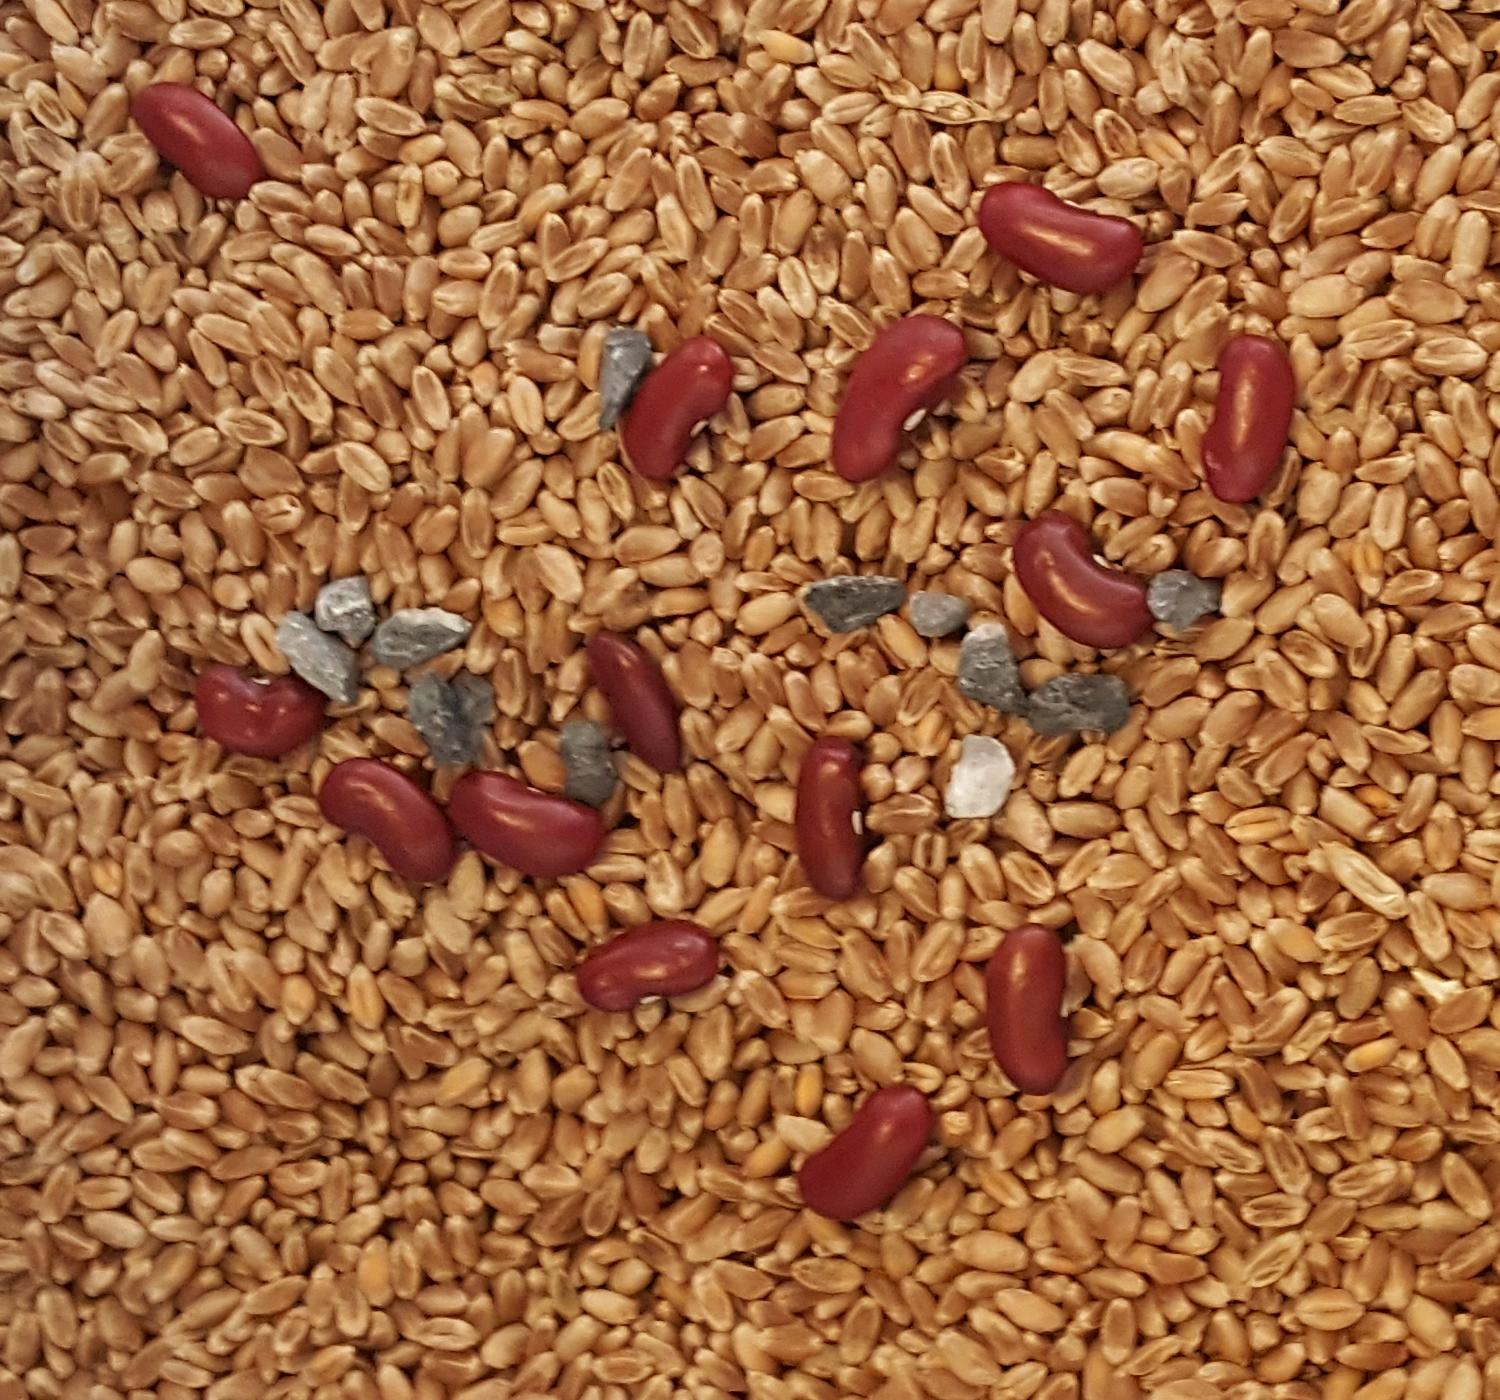
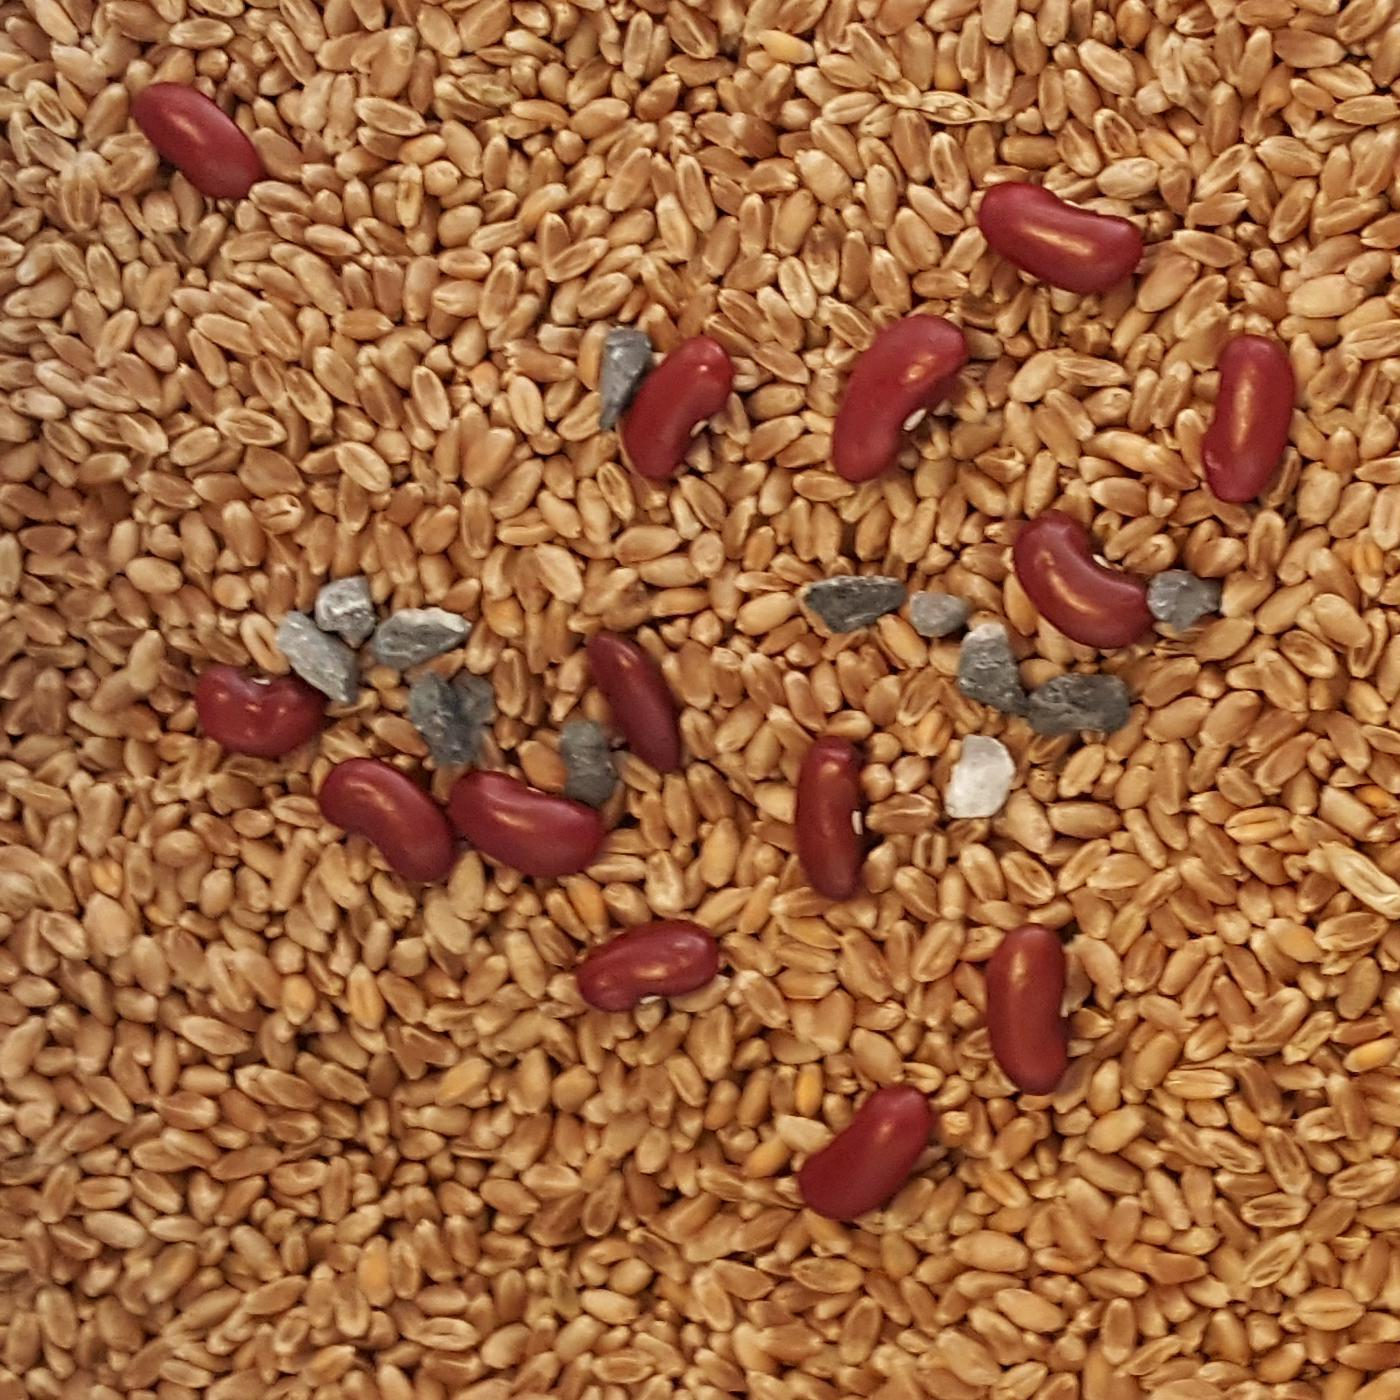
meeeeeeer

diff --git a/picture.py b/picture.py
@@ -7,6 +7,6 @@ imgs = Image.open("img/testweinig.jpeg")
 #im.show()
 arr = np.array(imgs)
 #print np.size(arr)
-img = Image.fromarray(arr[900:1900,2000:2500], 'RGB')
+img = Image.fromarray(arr[350:850,0:500], 'RGB')
 img.show()
-img.save('img/testweinig.jpeg')
+img.save('img/testveel2.jpeg')
